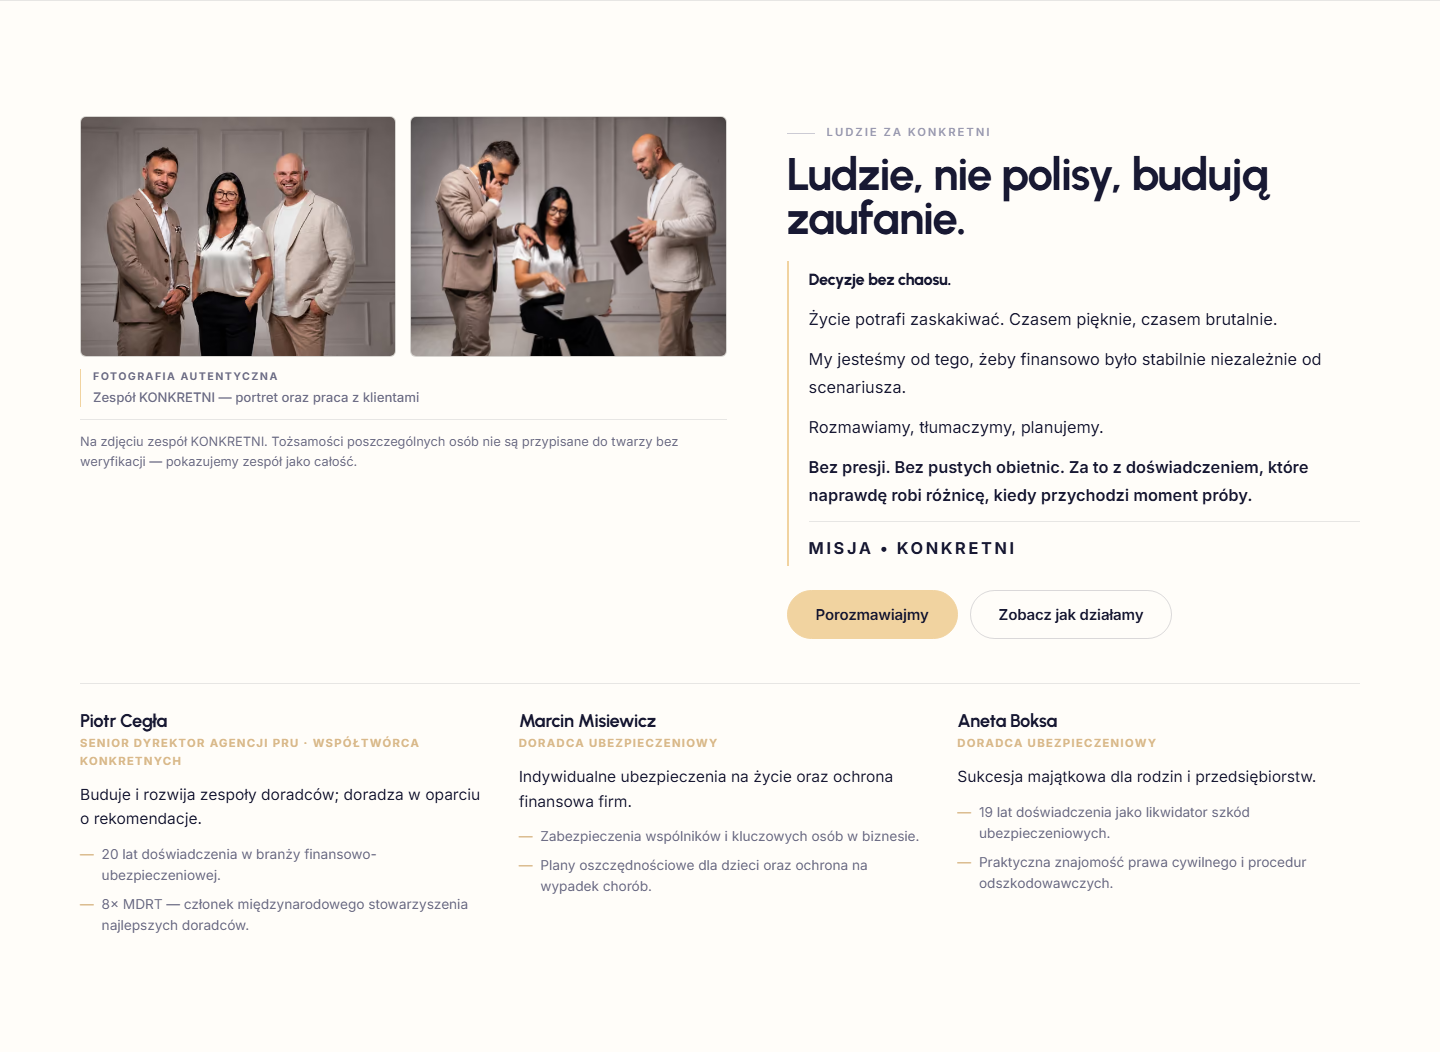
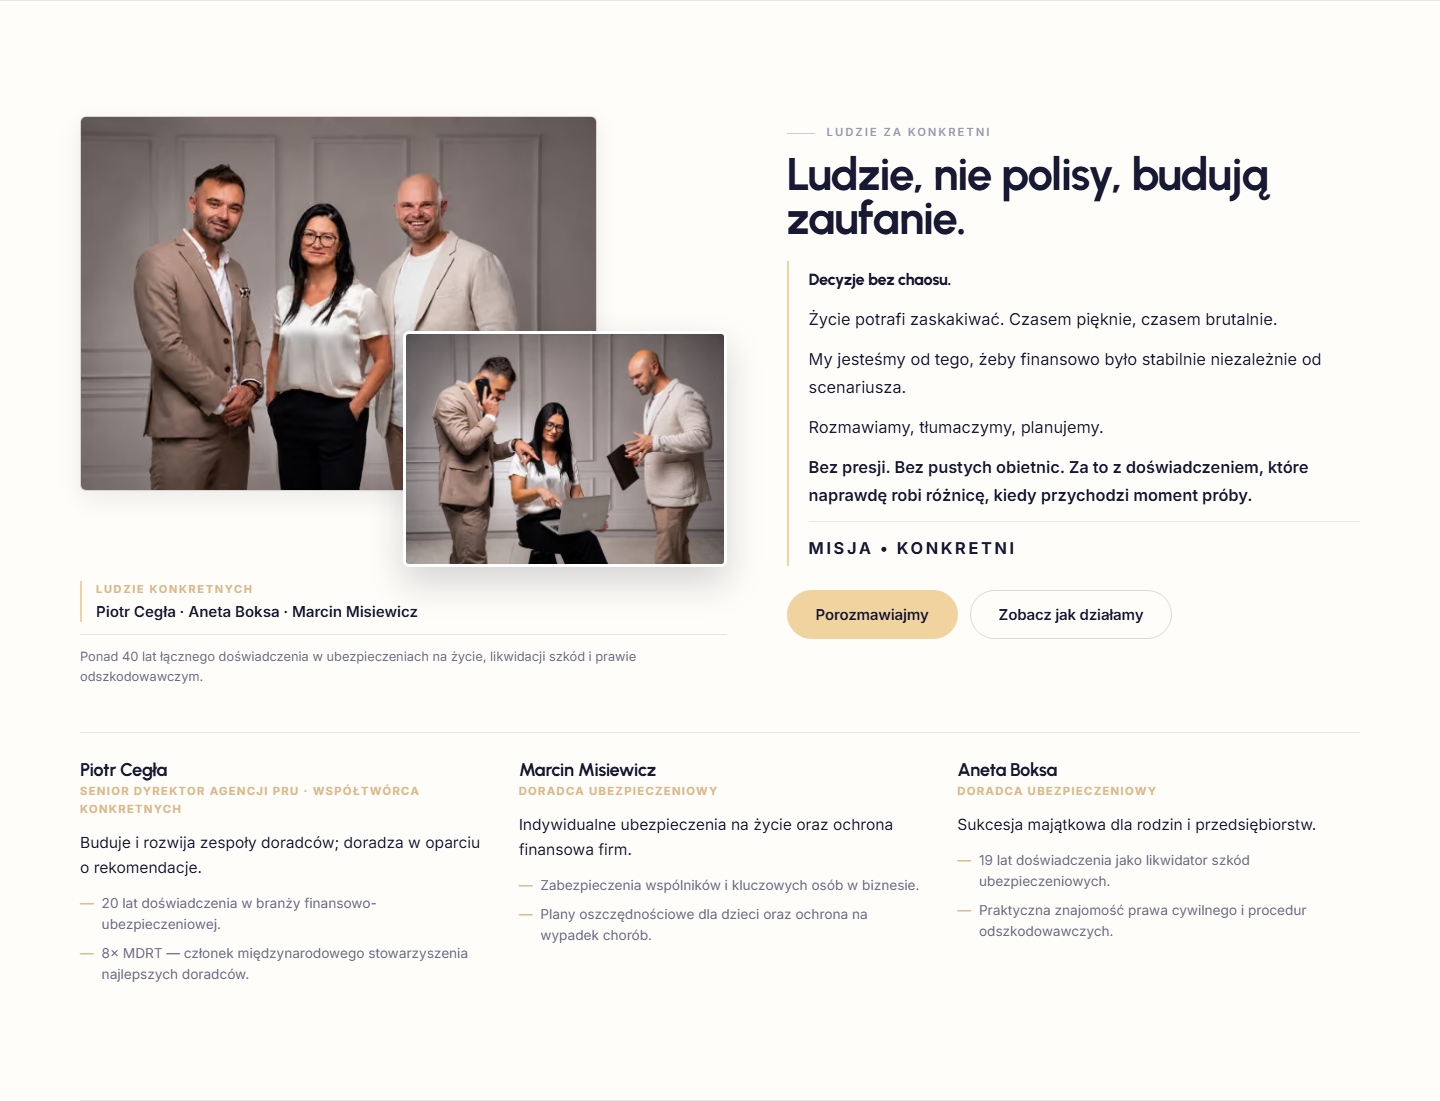
style: apply asymmetric layered photo collage and polished caption in team section

Changed region(s): [[0.0312, 0.0913, 0.9062, 0.6084], [0.0312, 0.6692, 0.9062, 0.9125], [0.0625, 0.5171, 0.4375, 0.6388]]

diff --git a/src/app/globals.css b/src/app/globals.css
@@ -787,15 +787,41 @@ a:hover { color: inherit; }
   align-items: start;
 }
 .team-visual { position: relative; }
-.team-gallery {
-  display: grid;
-  grid-template-columns: 1fr 1fr;
-  gap: 14px;
+.team-gallery--duo {
+  position: relative;
+  display: block;
+  padding-bottom: 76px;
+  margin-bottom: 8px;
+}
+.team-gallery--duo .team-figure:first-child {
+  width: 80%;
+  position: relative;
+  z-index: 1;
+}
+.team-gallery--duo .team-figure:first-child .team-frame {
+  box-shadow: 0 8px 24px rgba(24, 25, 51, 0.08);
+}
+.team-gallery--duo .team-figure:first-child .team-frame img {
+  aspect-ratio: 4 / 2.9;
+}
+.team-gallery--duo .team-figure:last-child {
+  position: absolute;
+  right: 0;
+  bottom: 0;
+  width: 50%;
+  z-index: 2;
+}
+.team-gallery--duo .team-figure:last-child .team-frame {
+  box-shadow: 0 16px 36px rgba(24, 25, 51, 0.18);
+  border: 3px solid #ffffff;
+}
+.team-gallery--duo .team-figure:last-child .team-frame img {
+  aspect-ratio: 4 / 2.9;
 }
 .team-figure {
   display: flex;
   flex-direction: column;
-  gap: 10px;
+  gap: 0;
 }
 .team-frame {
   position: relative;
@@ -807,7 +833,6 @@ a:hover { color: inherit; }
 .team-frame img {
   width: 100%;
   height: 100%;
-  aspect-ratio: 4 / 3.05;
   object-fit: cover;
   object-position: center 14%;
   display: block;
@@ -816,23 +841,30 @@ a:hover { color: inherit; }
   display: flex;
   flex-direction: column;
   gap: 2px;
-  border-left: 1px solid var(--champagne);
-  padding-left: 12px;
+  border-left: 2px solid var(--champagne);
+  padding-left: 14px;
+  margin-top: 14px;
 }
 .team-figcap-kicker {
   font-family: var(--font-inter);
-  font-size: 0.66rem;
+  font-size: 0.68rem;
   font-weight: 700;
-  letter-spacing: 0.14em;
+  letter-spacing: 0.16em;
   text-transform: uppercase;
-  color: var(--muted);
+  color: var(--champagne-deep);
 }
 .team-figcap-title {
   font-family: var(--font-inter);
-  font-size: 0.82rem;
-  font-weight: 500;
-  color: var(--muted);
+  font-size: 0.94rem;
+  font-weight: 600;
+  color: var(--navy);
   line-height: 1.4;
+}
+.team-note {
+  margin-top: 6px;
+  font-size: 0.88rem;
+  color: var(--muted);
+  line-height: 1.5;
 }
 .team-copy h2 {
   font-size: clamp(2rem, 3.9vw, 2.85rem);
@@ -985,8 +1017,11 @@ a:hover { color: inherit; }
 @media (max-width: 980px) {
   .team-grid { grid-template-columns: 1fr; }
 }
-@media (max-width: 540px) {
-  .team-gallery { grid-template-columns: 1fr; gap: 12px; }
+@media (max-width: 580px) {
+  .team-gallery--duo { padding-bottom: 50px; }
+  .team-gallery--duo .team-figure:first-child { width: 84%; }
+  .team-gallery--duo .team-figure:last-child { width: 54%; }
+  .team-gallery--duo .team-figure:last-child .team-frame { border-width: 2px; }
 }
 
 /* FAQ */

diff --git a/src/components/Team.tsx b/src/components/Team.tsx
@@ -35,17 +35,17 @@ export function Team() {
                       alt={img.alt}
                       width={img.width}
                       height={img.height}
-                      sizes="(max-width: 980px) 100vw, 320px"
+                      sizes="(max-width: 980px) 100vw, 420px"
                       style={{ objectFit: "cover" }}
                     />
                   </div>
                 </figure>
               ))}
             </div>
-            <figcaption className="team-figcap" style={{ marginTop: 12 }}>
-              <span className="team-figcap-kicker">Fotografia autentyczna</span>
-              <span className="team-figcap-title">Zespół KONKRETNI — portret oraz praca z klientami</span>
-            </figcaption>
+            <div className="team-figcap">
+              <span className="team-figcap-kicker">Ludzie KONKRETNYCH</span>
+              <span className="team-figcap-title">Piotr Cegła · Aneta Boksa · Marcin Misiewicz</span>
+            </div>
             <p className="team-note">{team.groupNote}</p>
           </div>
 

diff --git a/src/content/site.ts b/src/content/site.ts
@@ -179,9 +179,8 @@ export const siteConfig = {
       width: 1535,
       height: 1024,
     },
-    // Team is presented as a group. Do not map names to faces without verified mapping.
     groupNote:
-      "Na zdjęciu zespół KONKRETNI. Tożsamości poszczególnych osób nie są przypisane do twarzy bez weryfikacji — pokazujemy zespół jako całość.",
+      "Ponad 40 lat łącznego doświadczenia w ubezpieczeniach na życie, likwidacji szkód i prawie odszkodowawczym.",
     // Placeholder for future verified bios — keep null until verified
     members: null as null | Array<{ name: string; role: string; photoIndex: number }>,
   },
